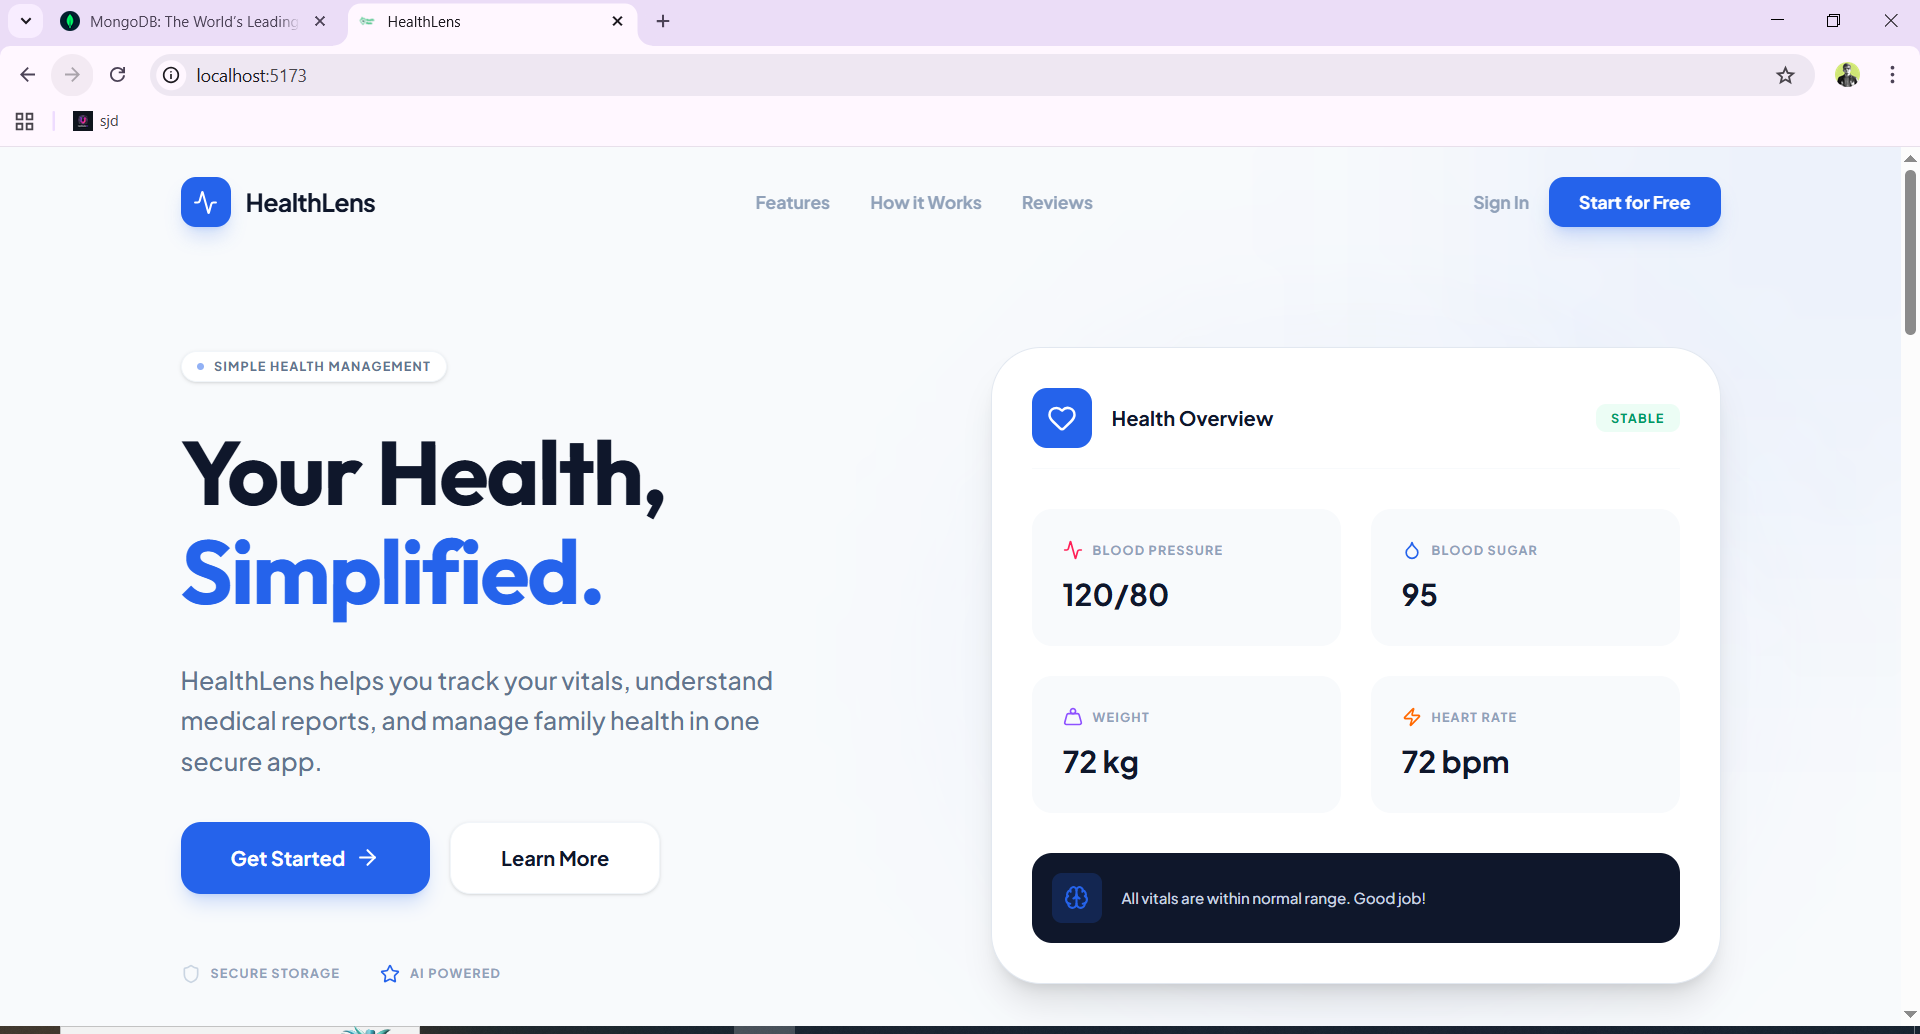
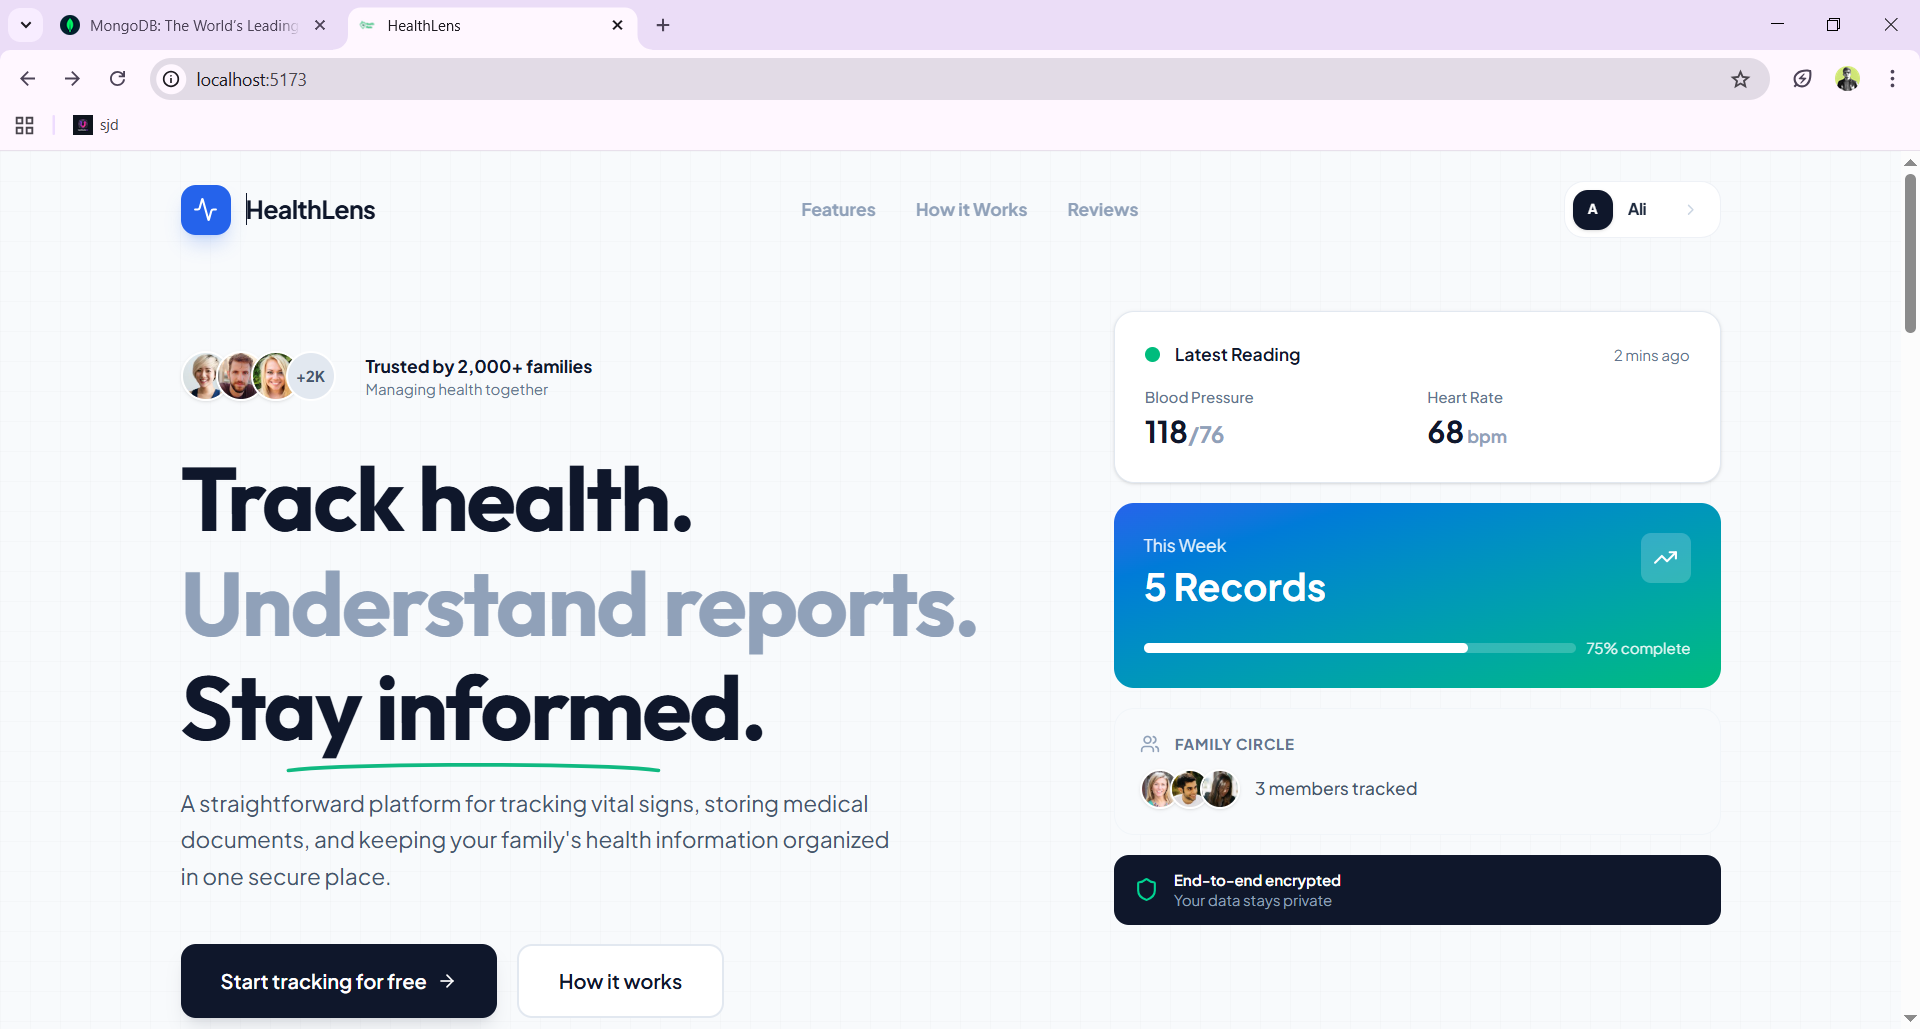
feat: add Hero component for the landing page

diff --git a/frontend/src/components/landing/Hero.jsx b/frontend/src/components/landing/Hero.jsx
@@ -5,140 +5,225 @@ import { toast } from "react-toastify";
 import {
   ArrowRight,
   Shield,
-  Star,
-  Heart,
+  CheckCircle2,
+  TrendingUp,
+  Users,
+  FileText,
   Activity,
-  Droplet,
-  Weight,
-  Zap,
-  Brain,
+  Calendar,
+  Clock,
 } from "lucide-react";
 
 const Hero = () => {
   const navigate = useNavigate();
 
   return (
-    <div>
-      <section className="relative pt-40 pb-24 overflow-hidden">
-        <div className="absolute top-0 right-0 w-[600px] h-[600px] bg-primary/5 rounded-full blur-[100px] -mr-64 -mt-64"></div>
-        <div className="max-w-7xl mx-auto px-6 relative z-10">
-          <div className="grid lg:grid-cols-2 gap-16 items-center">
-            <div className="space-y-8">
-              <div className="inline-flex items-center gap-2 px-3 py-1 bg-white border border-slate-100 rounded-full shadow-sm">
-                <div className="w-1.5 h-1.5 bg-primary rounded-full animate-pulse"></div>
-                <span className="text-[10px] font-bold uppercase tracking-widest text-slate-500">
-                  Simple Health Management
-                </span>
+    <div className="relative">
+      {/* Subtle grid pattern instead of gradient blob */}
+      <div className="absolute inset-0 bg-[linear-gradient(to_right,#80808008_1px,transparent_1px),linear-gradient(to_bottom,#80808008_1px,transparent_1px)] bg-[size:24px_24px]"></div>
+
+      <section className="relative pt-32 pb-20 overflow-hidden">
+        <div className="max-w-7xl mx-auto px-6">
+          {/* Asymmetric Layout */}
+          <div className="grid lg:grid-cols-12 gap-12 items-start">
+            {/* Left Column - 7 cols */}
+            <div className="lg:col-span-7 space-y-10 pt-8">
+              {/* Trust Badge */}
+              <div className="flex items-center gap-6">
+                <div className="flex -space-x-3">
+                  <img
+                    src="https://randomuser.me/api/portraits/women/44.jpg"
+                    alt="User"
+                    className="w-10 h-10 rounded-full border-2 border-white shadow-sm"
+                  />
+                  <img
+                    src="https://randomuser.me/api/portraits/men/32.jpg"
+                    alt="User"
+                    className="w-10 h-10 rounded-full border-2 border-white shadow-sm"
+                  />
+                  <img
+                    src="https://randomuser.me/api/portraits/women/68.jpg"
+                    alt="User"
+                    className="w-10 h-10 rounded-full border-2 border-white shadow-sm"
+                  />
+                  <div className="w-10 h-10 rounded-full bg-slate-200 border-2 border-white flex items-center justify-center text-slate-600 text-xs font-bold">
+                    +2K
+                  </div>
+                </div>
+                <div className="text-sm">
+                  <p className="font-bold text-slate-900">
+                    Trusted by 2,000+ families
+                  </p>
+                  <p className="text-slate-500 text-xs">
+                    Managing health together
+                  </p>
+                </div>
               </div>
 
-              <h1 className="text-5xl md:text-7xl font-bold text-slate-900 tracking-tight leading-[1.1]">
-                Your Health, <span className="text-primary">Simplified.</span>
-              </h1>
+              {/* Main Headline - More editorial, less marketing */}
+              <div className="space-y-6">
+                <h1 className="text-5xl md:text-6xl lg:text-7xl font-bold text-slate-900 tracking-tight leading-[1.05]">
+                  Track health.{" "}
+                  <span className="block mt-2 text-slate-400">
+                    Understand reports.
+                  </span>{" "}
+                  <span className="block mt-2">
+                    <span className="relative">
+                      Stay informed.
+                      <svg
+                        className="absolute -bottom-2 left-0 w-full"
+                        height="12"
+                        viewBox="0 0 300 12"
+                        fill="none"
+                      >
+                        <path
+                          d="M2 10C52 4 252 4 298 10"
+                          stroke="#10B981"
+                          strokeWidth="3"
+                          strokeLinecap="round"
+                        />
+                      </svg>
+                    </span>
+                  </span>
+                </h1>
 
-              <p className="text-xl text-slate-500 font-medium leading-relaxed max-w-lg">
-                HealthLens helps you track your vitals, understand medical
-                reports, and manage family health in one secure app.
-              </p>
+                <p className="text-lg text-slate-600 leading-relaxed max-w-xl font-normal">
+                  A straightforward platform for tracking vital signs, storing
+                  medical documents, and keeping your family's health
+                  information organized in one secure place.
+                </p>
+              </div>
 
+              {/* CTA Buttons */}
               <div className="flex flex-col sm:flex-row gap-4">
                 <button
                   onClick={() => navigate("/signup")}
-                  className="px-10 py-4 bg-primary text-white rounded-2xl font-bold shadow-lg shadow-primary/20 hover:bg-primary/90 transition-all flex items-center justify-center gap-2 group"
+                  className="px-8 py-4 bg-slate-900 text-white rounded-xl font-semibold hover:bg-slate-800 transition-all flex items-center justify-center gap-2 group shadow-lg shadow-slate-900/10"
                 >
-                  Get Started{" "}
-                  <ArrowRight className="w-5 h-5 group-hover:translate-x-1 transition-transform" />
+                  Start tracking for free
+                  <ArrowRight className="w-4 h-4 group-hover:translate-x-1 transition-transform" />
                 </button>
                 <Link
                   to="/about"
-                  className="px-10 py-4 bg-white border border-slate-100 text-slate-900 rounded-2xl font-bold hover:bg-slate-50 transition-all flex items-center justify-center shadow-sm"
+                  className="px-8 py-4 bg-white border-2 border-slate-200 text-slate-900 rounded-xl font-semibold hover:border-slate-300 transition-all flex items-center justify-center"
                 >
-                  Learn More
+                  How it works
                 </Link>
               </div>
 
-              <div className="flex gap-8 pt-6">
-                <div className="flex items-center gap-2">
-                  <Shield className="w-4 h-4 text-slate-300" />
-                  <span className="text-[10px] font-bold text-slate-400 uppercase tracking-widest">
-                    Secure Storage
-                  </span>
-                </div>
-                <div className="flex items-center gap-2">
-                  <Star className="w-4 h-4 text-primary" />
-                  <span className="text-[10px] font-bold text-slate-400 uppercase tracking-widest">
-                    AI Powered
-                  </span>
-                </div>
+              {/* Features list - More specific, less generic */}
+              <div className="grid grid-cols-2 gap-4 pt-4">
+                {[
+                  { text: "Blood pressure & vitals tracking", icon: Activity },
+                  { text: "AI report summaries", icon: FileText },
+                  { text: "Family health profiles", icon: Users },
+                  { text: "Timeline visualization", icon: TrendingUp },
+                ].map((item, i) => (
+                  <div key={i} className="flex items-start gap-3">
+                    <CheckCircle2 className="w-5 h-5 text-emerald-500 flex-shrink-0 mt-0.5" />
+                    <span className="text-sm text-slate-600 font-medium">
+                      {item.text}
+                    </span>
+                  </div>
+                ))}
               </div>
             </div>
 
-            <div className="relative">
-              <div className="absolute -inset-10 bg-primary/10 rounded-full blur-3xl opacity-30"></div>
-              <div className="relative bg-white border border-slate-200 rounded-[2.5rem] p-8 shadow-xl">
-                <div className="flex items-center justify-between mb-8 pb-4 border-b border-slate-50">
-                  <div className="flex items-center gap-4">
-                    <div className="w-12 h-12 bg-primary rounded-xl flex items-center justify-center text-white">
-                      <Heart className="w-6 h-6" />
-                    </div>
-                    <span className="font-bold text-slate-900">
-                      Health Overview
+            {/* Right Column - 5 cols - Realistic health data cards */}
+            <div className="lg:col-span-5 space-y-4">
+              {/* Recent Vital Card */}
+              <div className="bg-white border border-slate-200 rounded-2xl p-6 shadow-sm">
+                <div className="flex items-center justify-between mb-4">
+                  <div className="flex items-center gap-3">
+                    <div className="w-3 h-3 bg-emerald-500 rounded-full"></div>
+                    <span className="text-sm font-semibold text-slate-900">
+                      Latest Reading
                     </span>
                   </div>
-                  <span className="px-3 py-1 bg-emerald-50 text-emerald-600 rounded-lg text-[10px] font-bold uppercase tracking-widest">
-                    Stable
+                  <span className="text-xs text-slate-500">2 mins ago</span>
+                </div>
+                <div className="grid grid-cols-2 gap-4">
+                  <div className="space-y-1">
+                    <p className="text-xs text-slate-500 font-medium">
+                      Blood Pressure
+                    </p>
+                    <p className="text-2xl font-bold text-slate-900">
+                      118<span className="text-lg text-slate-400">/76</span>
+                    </p>
+                  </div>
+                  <div className="space-y-1">
+                    <p className="text-xs text-slate-500 font-medium">
+                      Heart Rate
+                    </p>
+                    <p className="text-2xl font-bold text-slate-900">
+                      68<span className="text-sm text-slate-400"> bpm</span>
+                    </p>
+                  </div>
+                </div>
+              </div>
+
+              {/* Weekly Summary */}
+              <div className="bg-gradient-to-br from-primary to-emerald-500 rounded-2xl p-6 text-white">
+                <div className="flex items-start justify-between mb-6">
+                  <div>
+                    <p className="text-sm opacity-90 mb-1">This Week</p>
+                    <p className="text-3xl font-bold">5 Records</p>
+                  </div>
+                  <div className="w-10 h-10 bg-white/20 rounded-lg flex items-center justify-center">
+                    <TrendingUp className="w-5 h-5" />
+                  </div>
+                </div>
+                <div className="flex items-center gap-2 text-sm">
+                  <div className="w-full bg-white/20 rounded-full h-2">
+                    <div className="bg-white rounded-full h-2 w-3/4"></div>
+                  </div>
+                  <span className="text-xs opacity-90 whitespace-nowrap">
+                    75% complete
                   </span>
                 </div>
+              </div>
 
-                <div className="grid grid-cols-2 gap-6">
-                  {[
-                    {
-                      label: "Blood Pressure",
-                      value: "120/80",
-                      color: "text-rose-500",
-                      icon: Activity,
-                    },
-                    {
-                      label: "Blood Sugar",
-                      value: "95",
-                      color: "text-primary",
-                      icon: Droplet,
-                    },
-                    {
-                      label: "Weight",
-                      value: "72 kg",
-                      color: "text-violet-500",
-                      icon: Weight,
-                    },
-                    {
-                      label: "Heart Rate",
-                      value: "72 bpm",
-                      color: "text-orange-500",
-                      icon: Zap,
-                    },
-                  ].map((item, i) => (
-                    <div
-                      key={i}
-                      className="bg-slate-50 p-6 rounded-2xl border border-slate-50 hover:border-primary/10 transition-all"
-                    >
-                      <div className="flex items-center gap-2 mb-3">
-                        <item.icon className={`w-4 h-4 ${item.color}`} />
-                        <span className="text-[10px] font-bold text-slate-400 uppercase tracking-widest">
-                          {item.label}
-                        </span>
-                      </div>
-                      <p className="text-2xl font-bold text-slate-900">
-                        {item.value}
-                      </p>
-                    </div>
-                  ))}
+              {/* Family Member Quick Card */}
+              <div className="bg-slate-50 border border-slate-100 rounded-2xl p-5">
+                <div className="flex items-center gap-3 mb-3">
+                  <Users className="w-4 h-4 text-slate-400" />
+                  <span className="text-xs font-bold text-slate-500 uppercase tracking-wider">
+                    Family Circle
+                  </span>
                 </div>
-
-                <div className="mt-8 p-4 bg-slate-900 rounded-2xl flex items-center gap-4">
-                  <div className="w-10 h-10 bg-primary/20 rounded-lg flex items-center justify-center">
-                    <Brain className="w-5 h-5 text-primary" />
+                <div className="flex items-center gap-3">
+                  <div className="flex -space-x-2">
+                    <img
+                      src="https://randomuser.me/api/portraits/women/65.jpg"
+                      alt="Family member"
+                      className="w-8 h-8 rounded-full border-2 border-white shadow-sm"
+                    />
+                    <img
+                      src="https://randomuser.me/api/portraits/men/86.jpg"
+                      alt="Family member"
+                      className="w-8 h-8 rounded-full border-2 border-white shadow-sm"
+                    />
+                    <img
+                      src="https://randomuser.me/api/portraits/women/12.jpg"
+                      alt="Family member"
+                      className="w-8 h-8 rounded-full border-2 border-white shadow-sm"
+                    />
                   </div>
-                  <p className="text-xs text-slate-300 font-medium">
-                    All vitals are within normal range. Good job!
+                  <span className="text-sm text-slate-600 font-medium">
+                    3 members tracked
+                  </span>
+                </div>
+              </div>
+
+              {/* Security Badge */}
+              <div className="flex items-center gap-3 px-4 py-3 bg-slate-900 rounded-xl">
+                <Shield className="w-5 h-5 text-emerald-400" />
+                <div className="flex-1">
+                  <p className="text-xs font-semibold text-white">
+                    End-to-end encrypted
+                  </p>
+                  <p className="text-xs text-slate-400">
+                    Your data stays private
                   </p>
                 </div>
               </div>
